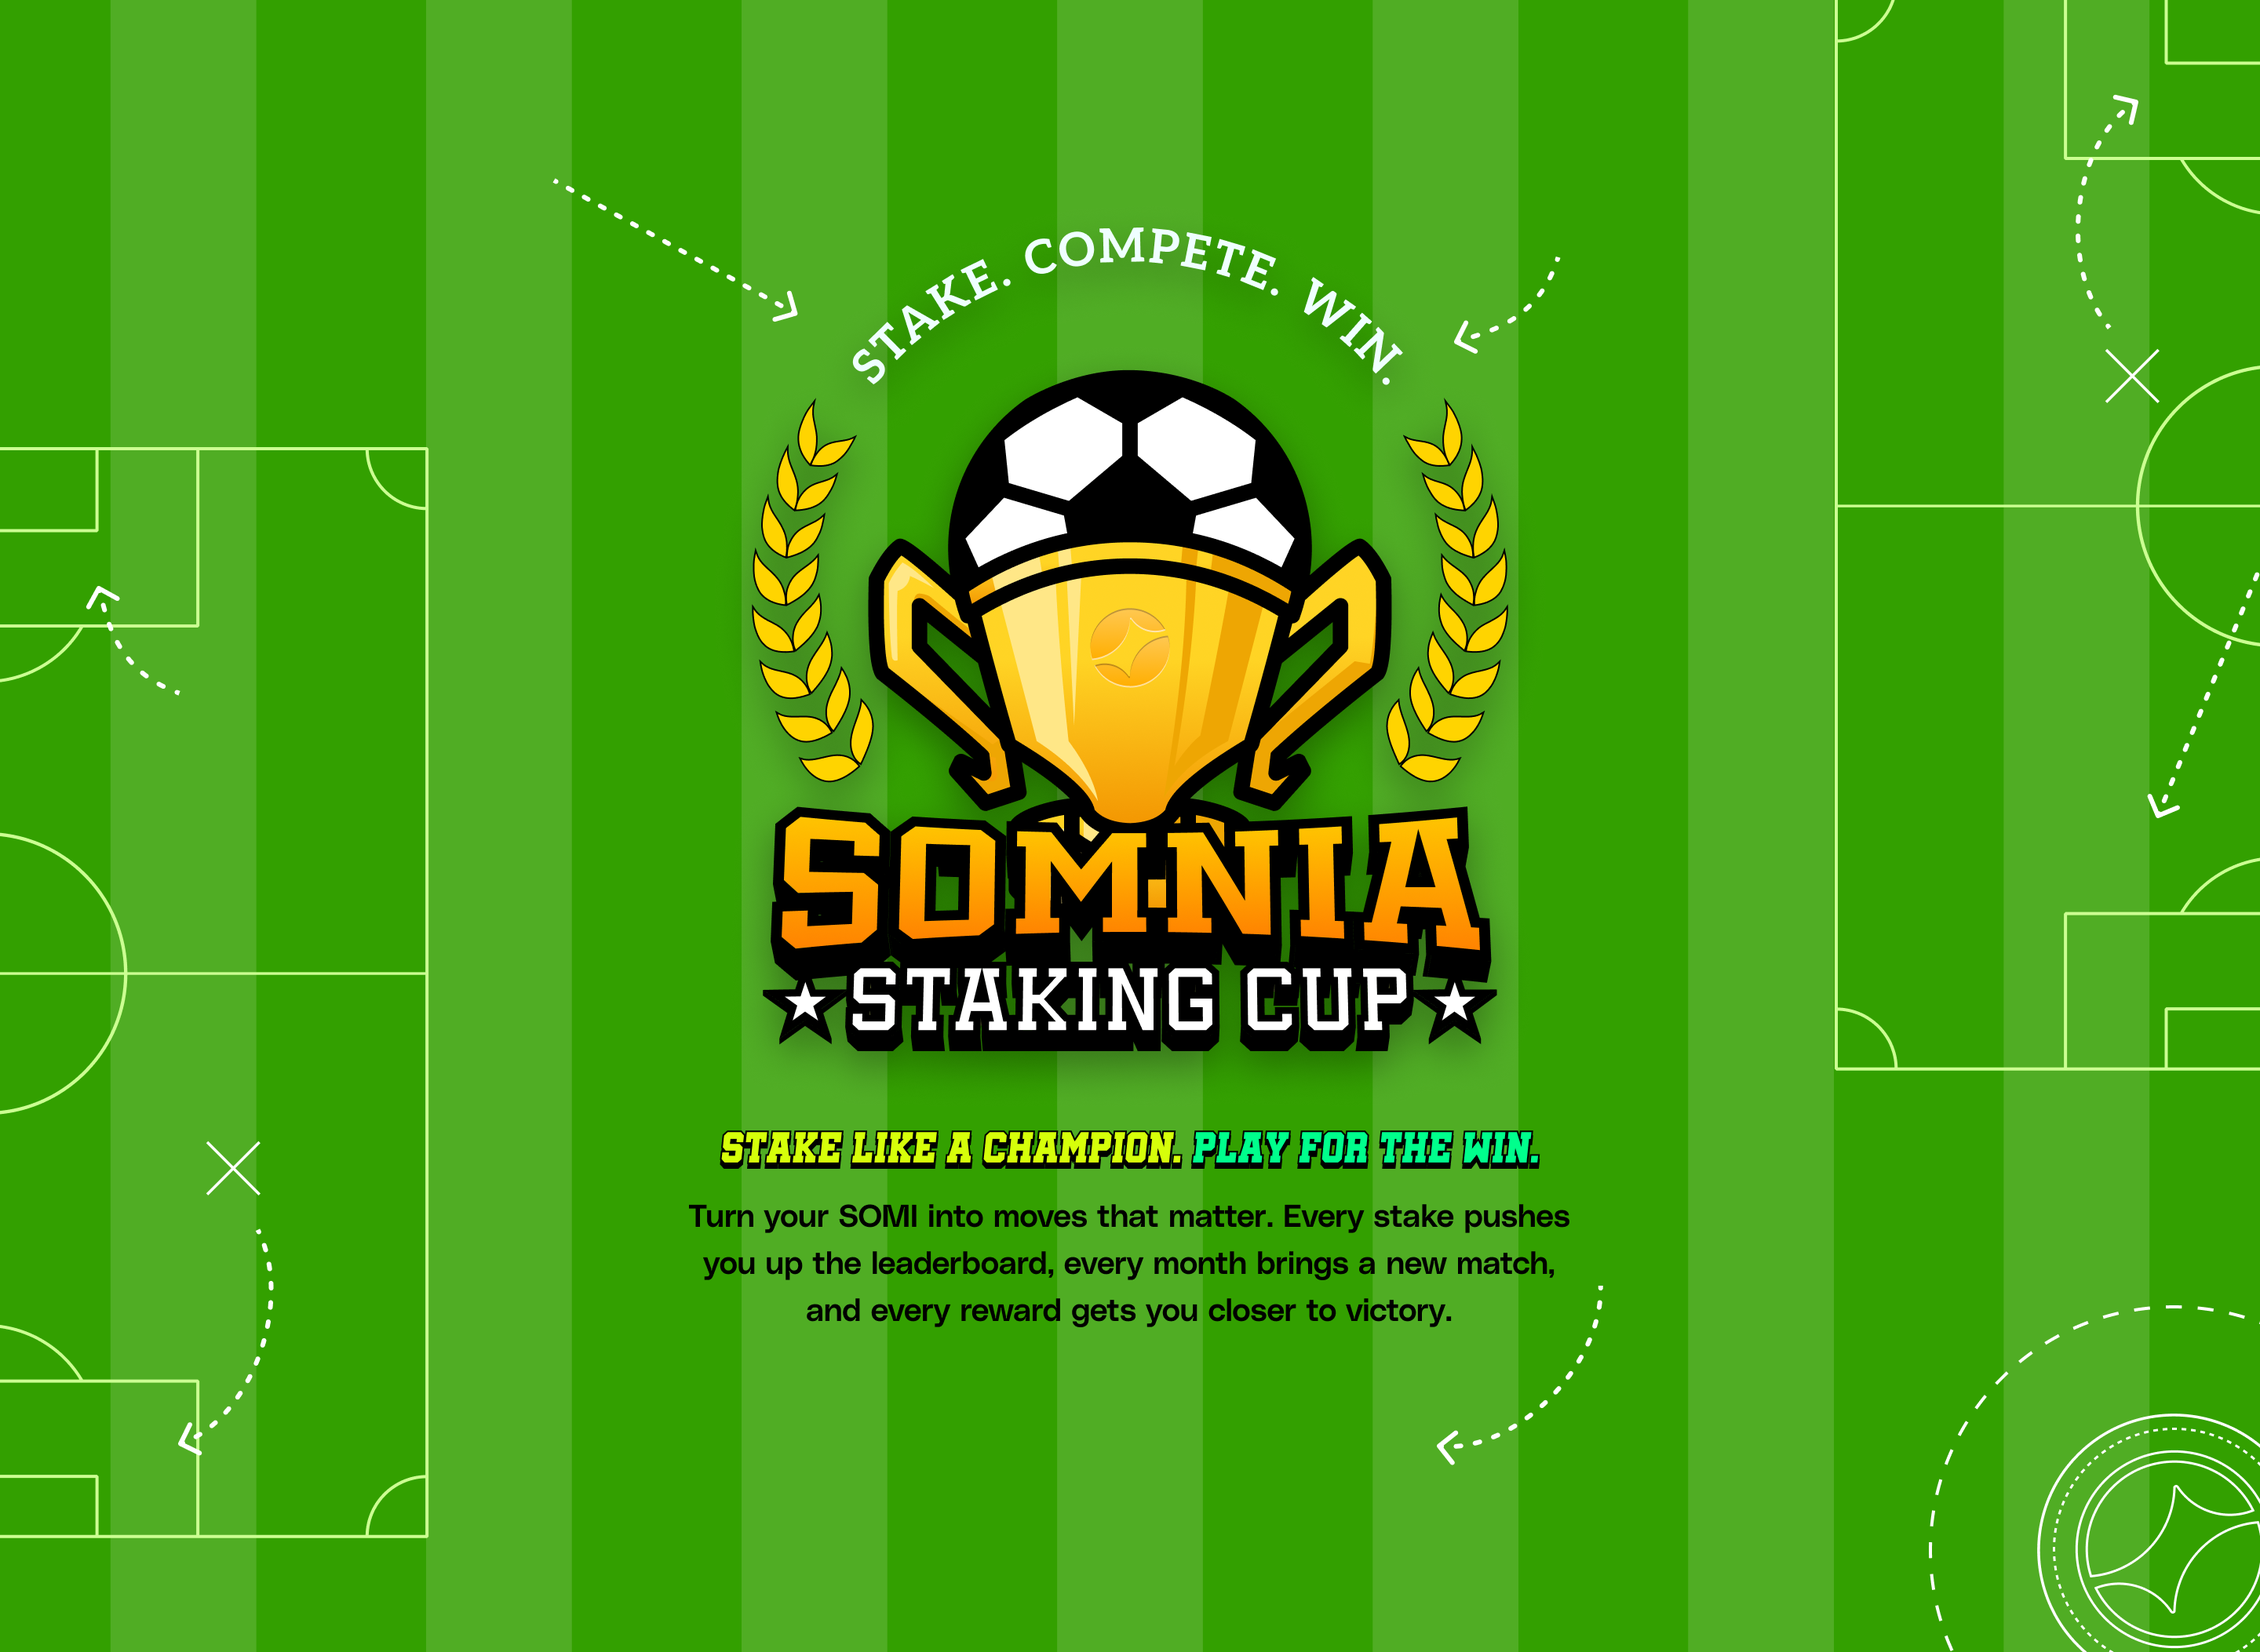
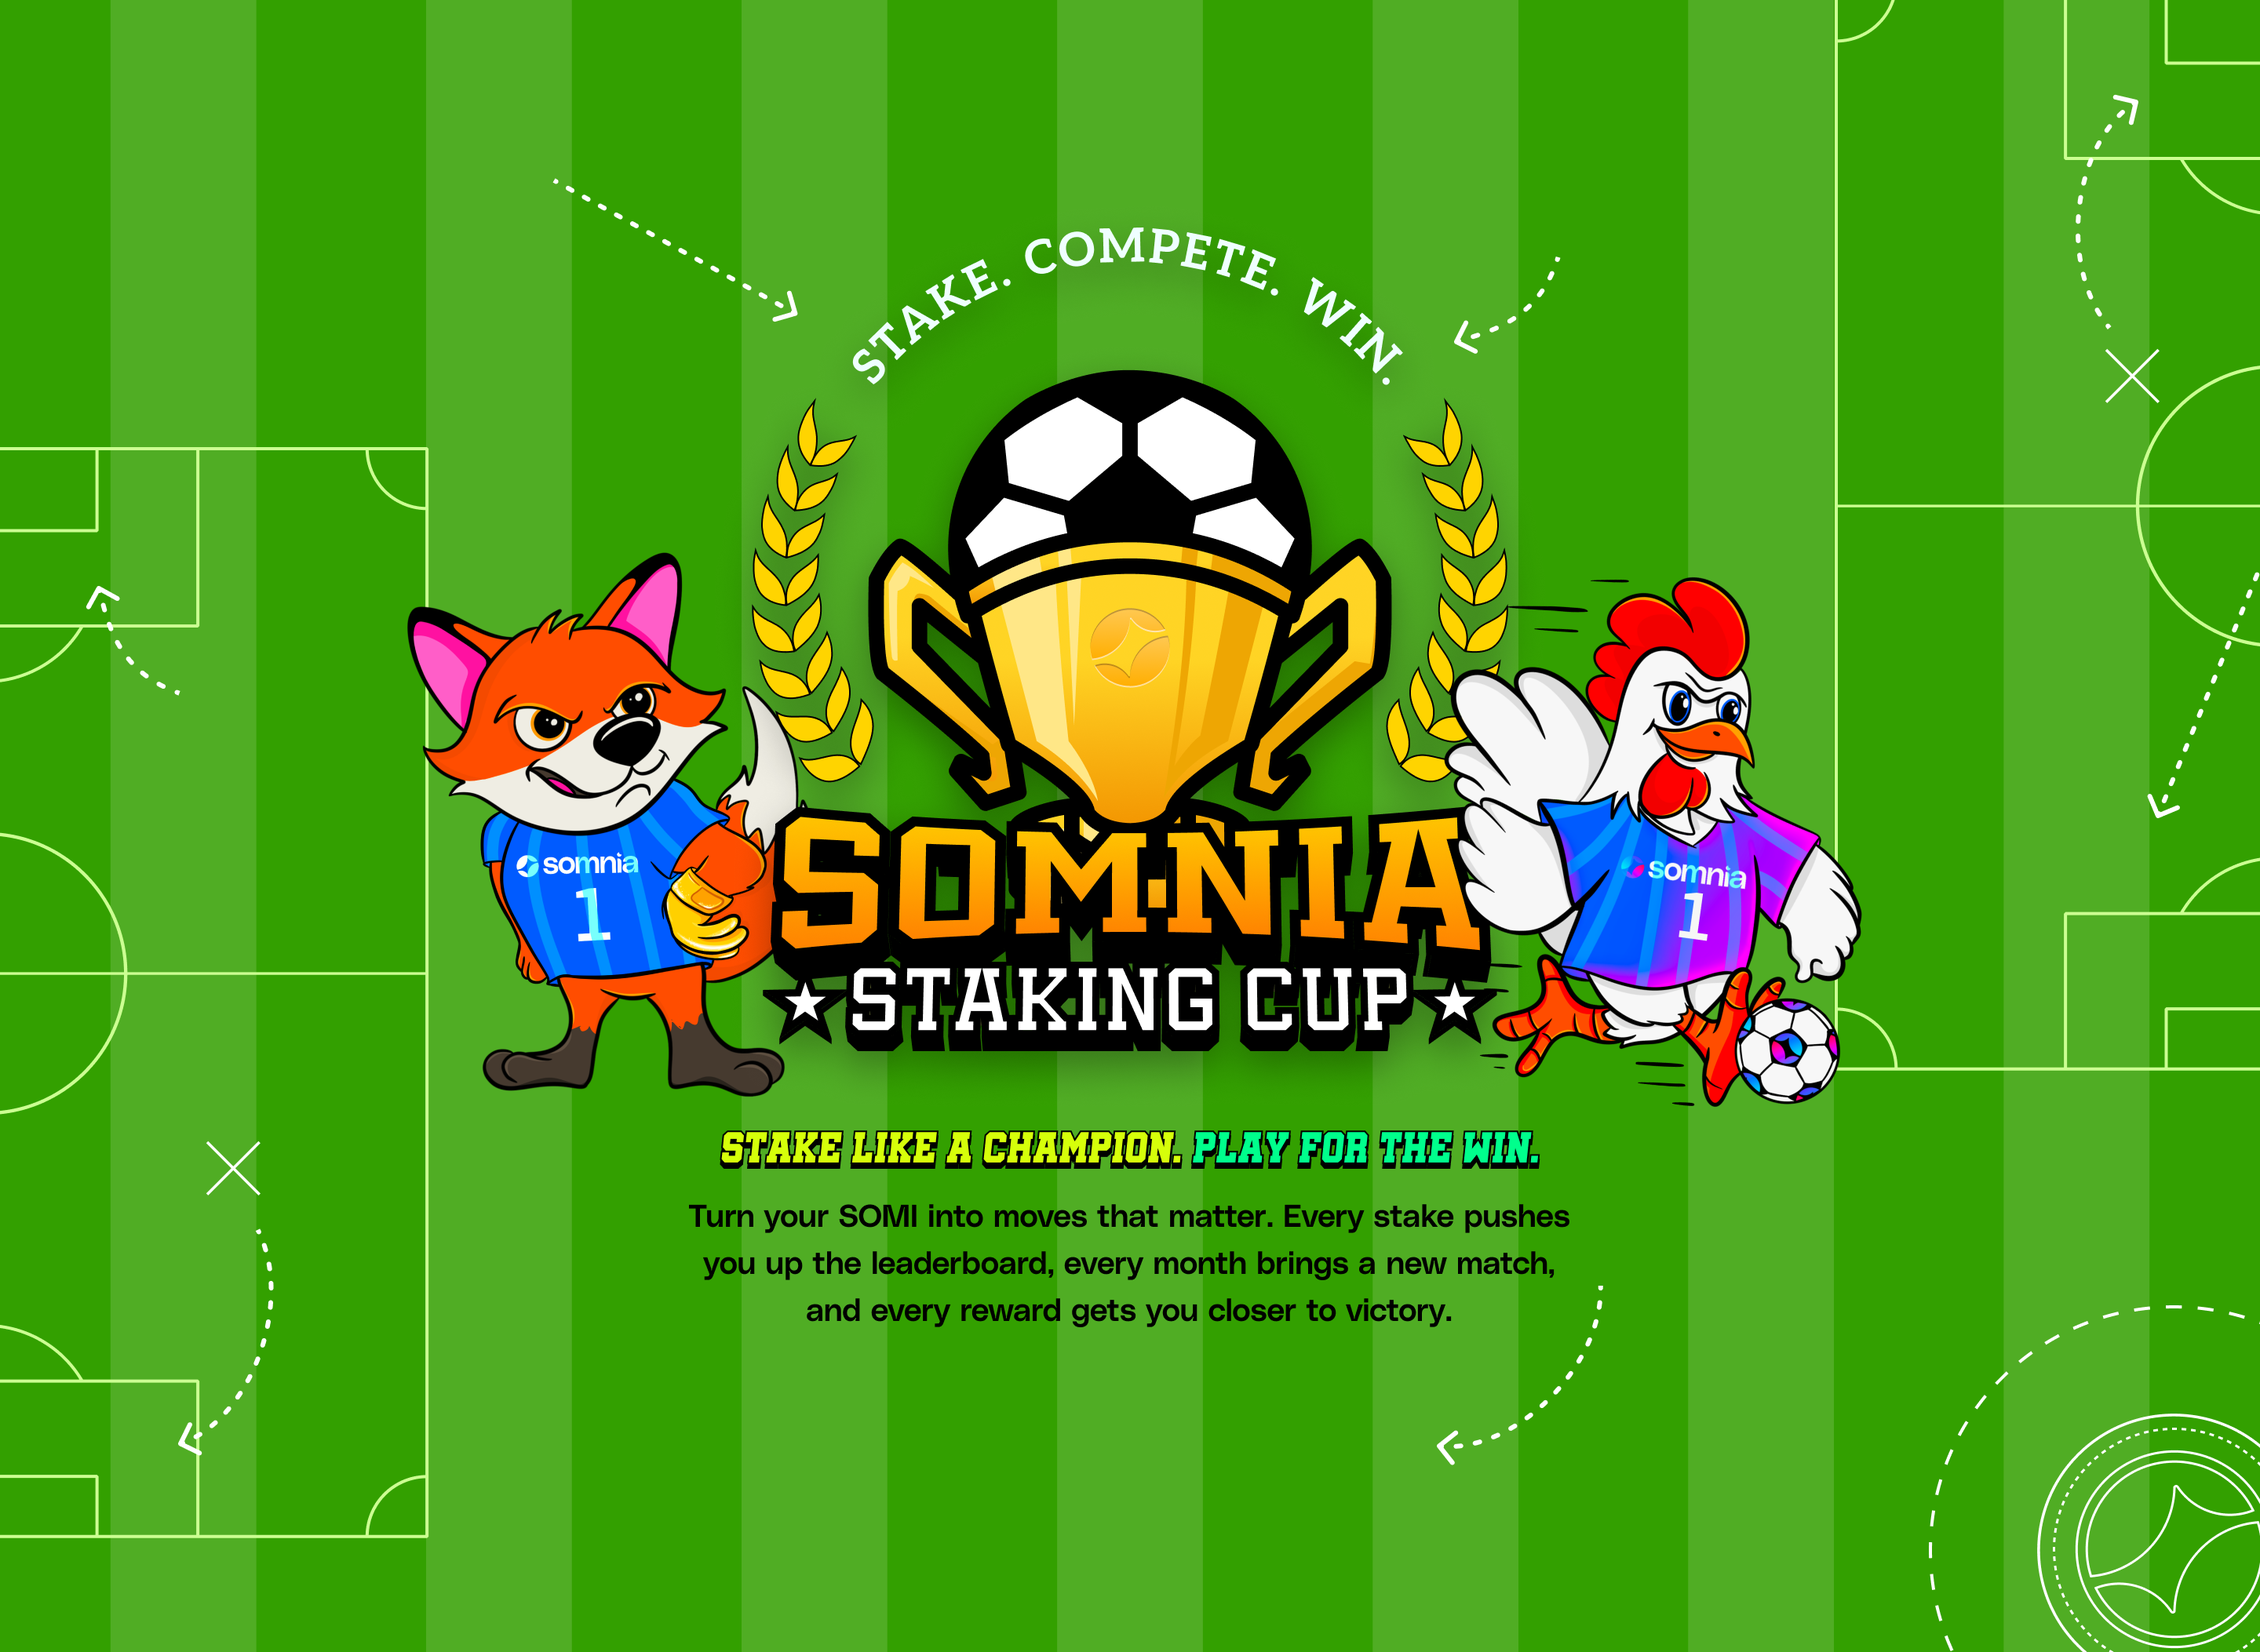
edit herobg

Changed region(s): [[0.625, 0.3395, 0.8438, 0.679], [0.1562, 0.3395, 0.375, 0.679]]

diff --git a/index.html b/index.html
@@ -135,15 +135,7 @@
       }
 
       /* Hero mascot animations */
-      .hero-mascot { position: absolute; will-change: transform; transform: translate3d(0, var(--parallax-y, 0px), 0); pointer-events: none; }
-      .hero-mascot-img { display: block; transform-origin: center bottom; animation: mascot-wiggle 2.2s ease-in-out infinite; will-change: transform; }
-      .hero-fox .hero-mascot-img { animation-delay: 0.2s; }
-      .hero-chicken .hero-mascot-img { animation-delay: 0.6s; }
-      @keyframes mascot-wiggle {
-        0% { transform: translate(0, 0) rotate(0deg); }
-        50% { transform: translate(1px, -3px) rotate(2deg); }
-        100% { transform: translate(-1px, -1px) rotate(-2deg); }
-      }
+      
       @media (prefers-reduced-motion: reduce) {
         .hero-mascot { transform: none; }
         .hero-mascot-img { animation: none; }
@@ -402,13 +394,7 @@
         </div>
       </div>
 
-      <!-- Hero mascots (absolute overlays) -->
-      <div class="hero-mascot hero-fox" data-parallax="6" style="left:170px; top:320px; z-index:1;">
-        <img src="./assets/fox.png" alt="" class="hero-mascot-img" aria-hidden="true" />
-      </div>
-      <div class="hero-mascot hero-chicken" data-parallax="4" style="left:800px; top:300px; z-index:1;">
-        <img src="./assets/chicken.png" alt="" class="hero-mascot-img" aria-hidden="true" />
-      </div>
+      
     </section>
 
     <!-- Helper: applies offset for sticky header -->
@@ -704,37 +690,7 @@
           toggle.addEventListener('touchend', handler, { passive: false });
         });
       })();
-      // Tiny scroll-based parallax for hero mascots
-      (function(){
-        const mql = window.matchMedia('(prefers-reduced-motion: reduce)');
-        if (mql.matches) return;
-        const hero = document.getElementById('top');
-        if (!hero) return;
-        const mascots = Array.from(hero.querySelectorAll('.hero-mascot'));
-        if (!mascots.length) return;
-        let ticking = false;
-        function update() {
-          ticking = false;
-          const rect = hero.getBoundingClientRect();
-          const viewportH = window.innerHeight || document.documentElement.clientHeight;
-          const centerDelta = (rect.top + rect.height / 2) - (viewportH / 2);
-          const norm = Math.max(-1, Math.min(1, centerDelta / (viewportH / 2)));
-          mascots.forEach(el => {
-            const max = Math.max(2, Math.min(8, parseFloat(el.getAttribute('data-parallax')) || 4));
-            const offset = -norm * max;
-            el.style.setProperty('--parallax-y', offset.toFixed(2) + 'px');
-          });
-        }
-        function request() {
-          if (!ticking) {
-            ticking = true;
-            requestAnimationFrame(update);
-          }
-        }
-        window.addEventListener('scroll', request, { passive: true });
-        window.addEventListener('resize', request);
-        request();
-      })();
+      
     </script>
   </body>
 </html>
